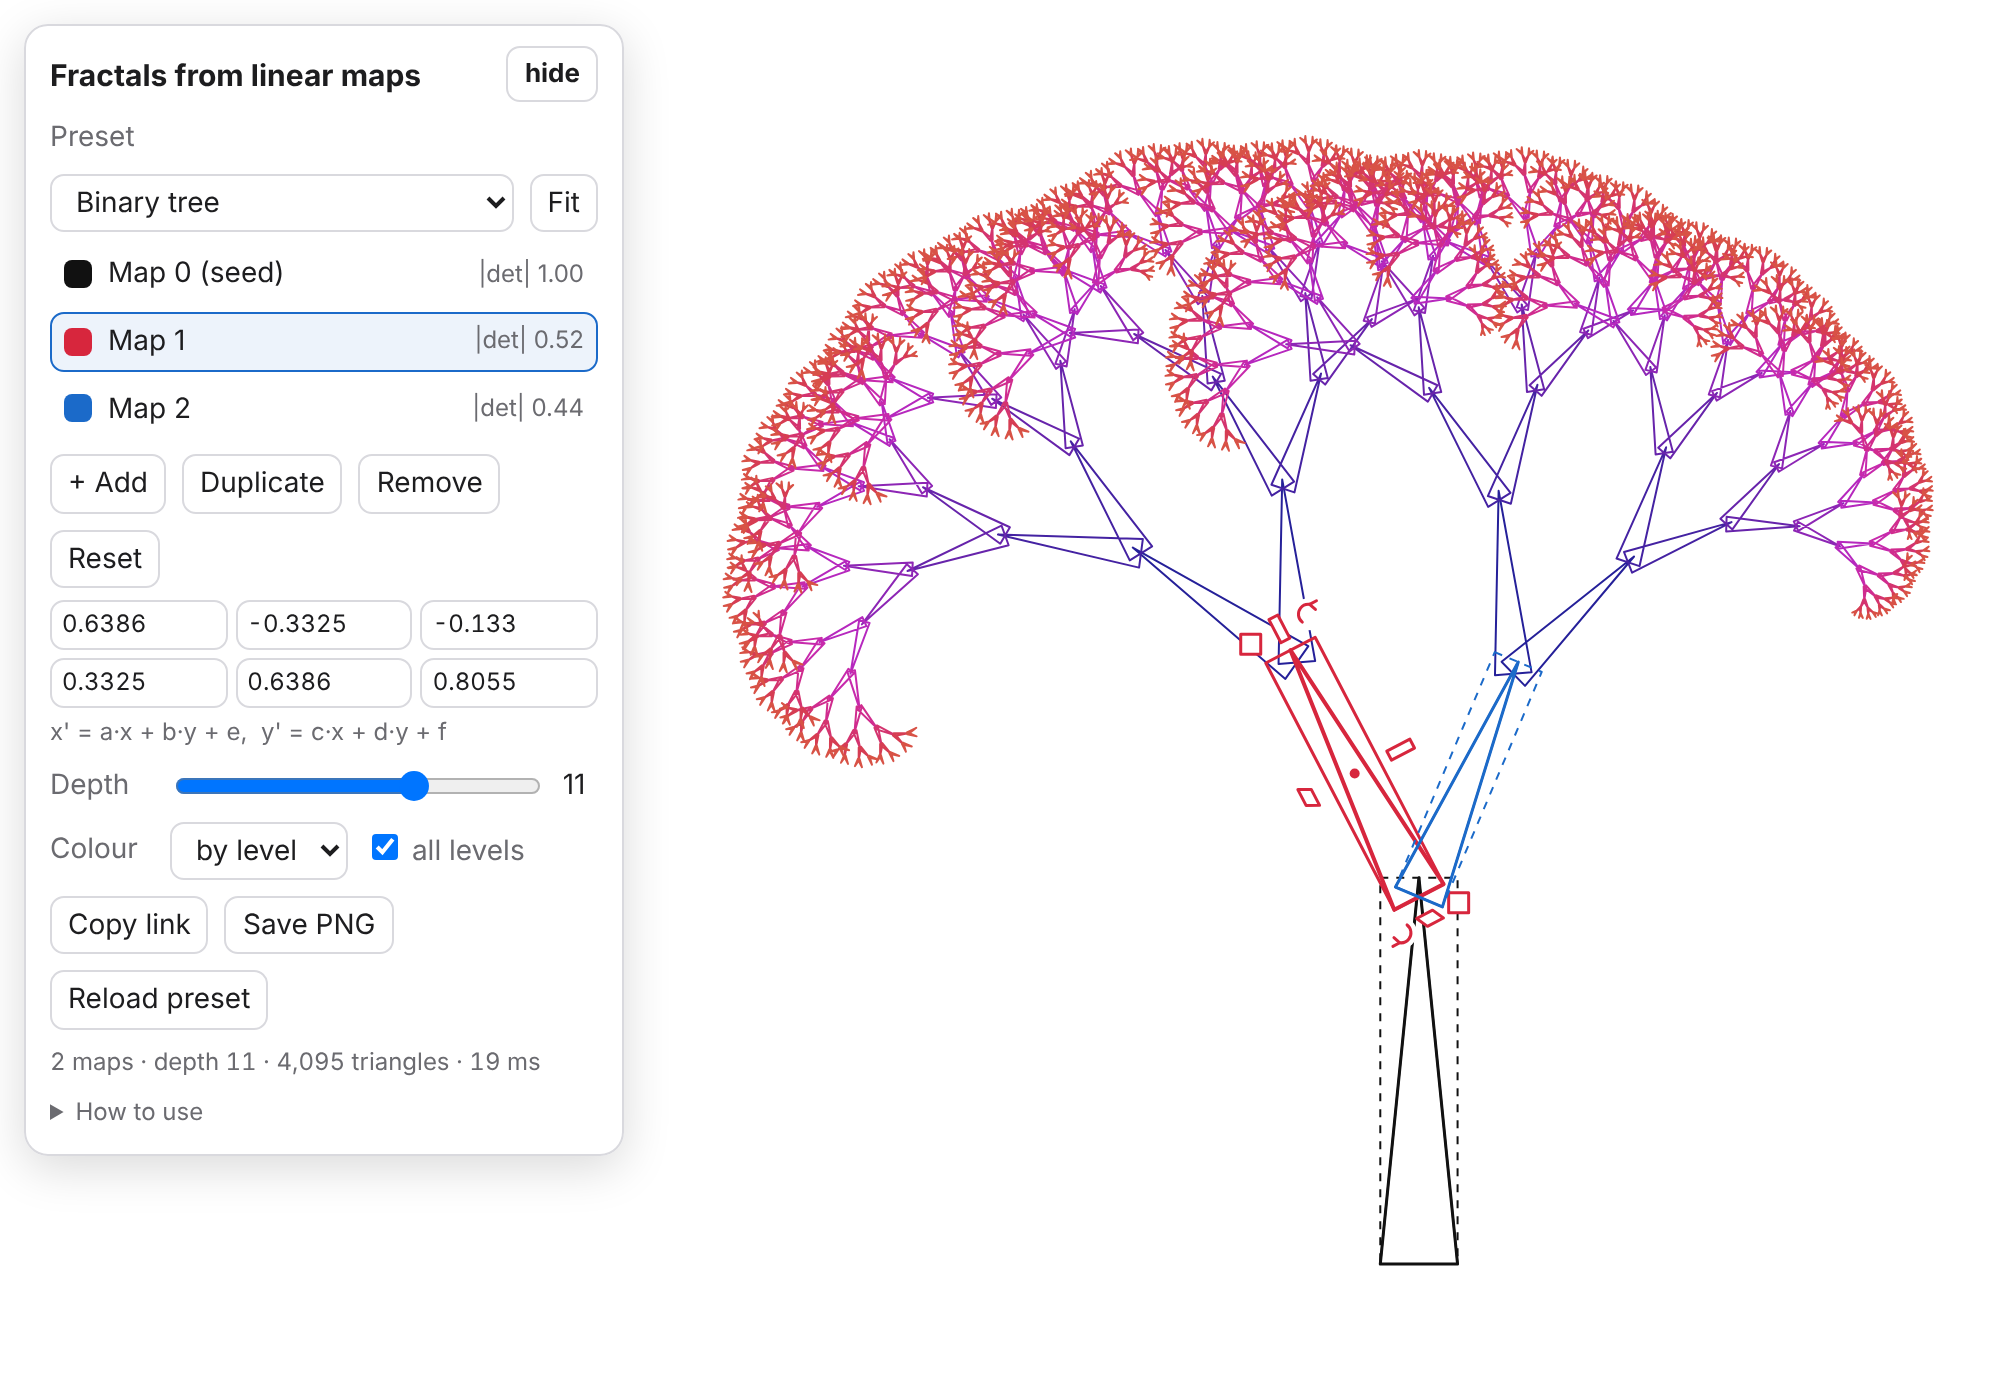
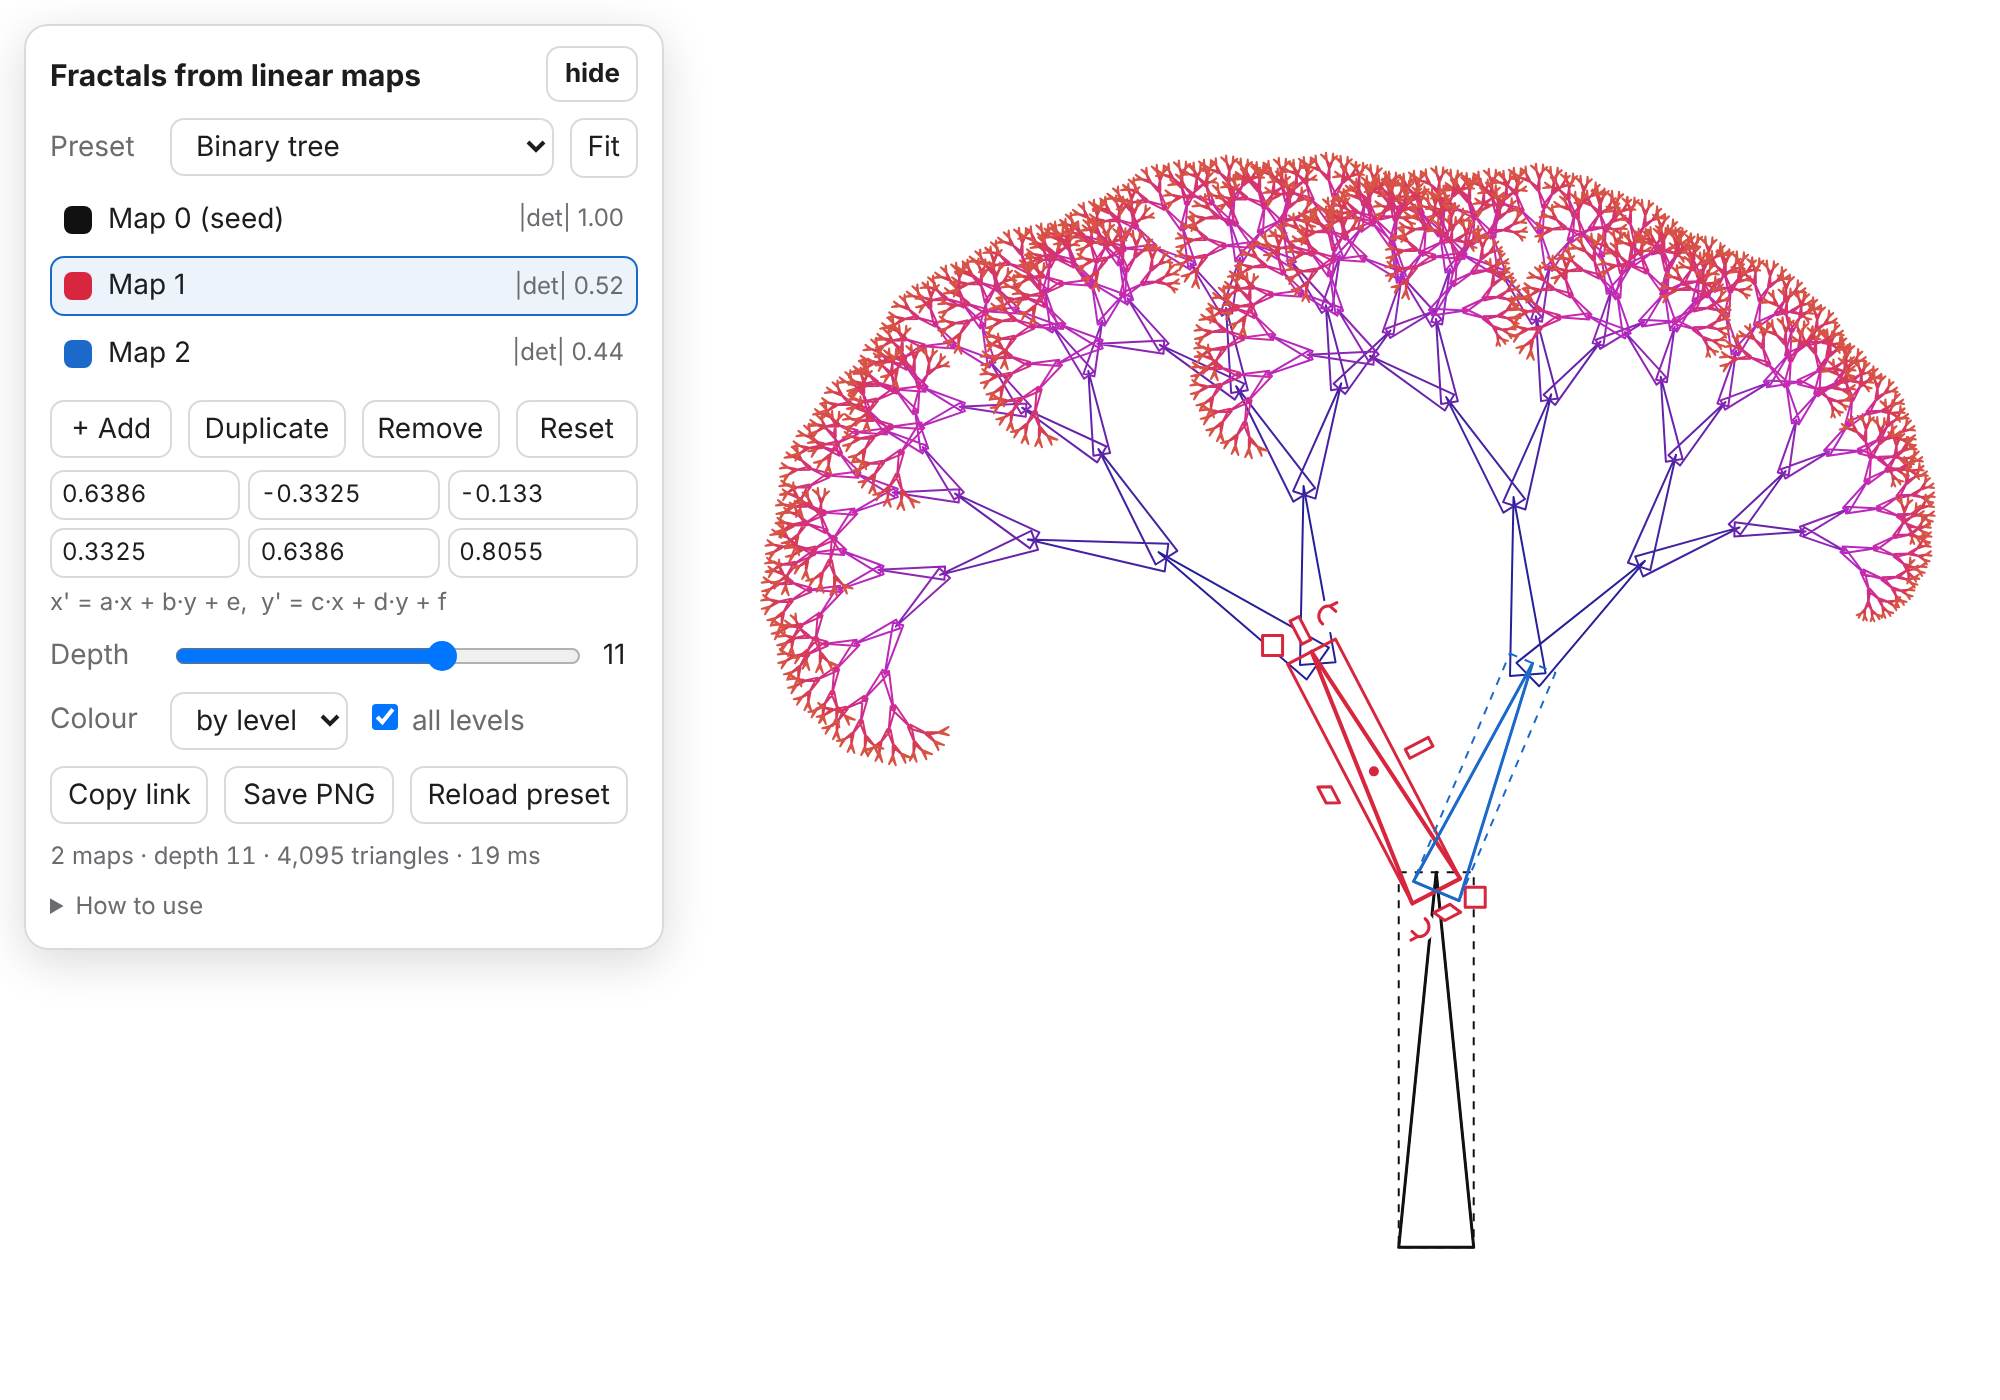
Keep the panel rows on one line
Claude-Session: https://claude.ai/code/session_01CVnhwgJD6oc9kUdkUExhbg

Changed region(s): [[0.341, 0.0921, 0.992, 0.9214], [0.031, 0.0921, 0.341, 0.8293], [0.248, 0.0307, 0.31, 0.0614]]

diff --git a/index.html b/index.html
@@ -29,7 +29,7 @@
   html, body { margin: 0; height: 100%; overflow: hidden; background: var(--bg); color: var(--text);
     font: 14px/1.4 system-ui, -apple-system, "Segoe UI", Roboto, sans-serif; }
   canvas#c { position: fixed; inset: 0; width: 100%; height: 100%; touch-action: none; display: block; }
-  #panel { position: fixed; left: 12px; top: 12px; width: 300px; max-height: calc(100% - 24px);
+  #panel { position: fixed; left: 12px; top: 12px; width: 320px; max-height: calc(100% - 24px);
     overflow: auto; background: var(--panel); border: 1px solid var(--border); border-radius: 12px;
     box-shadow: 0 6px 24px rgba(0,0,0,0.15); padding: 10px 12px 12px; backdrop-filter: blur(6px); }
   #panel h1 { font-size: 15px; margin: 0; display: flex; align-items: center; justify-content: space-between; }
@@ -50,7 +50,7 @@
   .map.sel { border-color: var(--accent); background: rgba(27,106,201,0.08); }
   .map .sw { width: 14px; height: 14px; border-radius: 4px; flex: none; }
   .map .nm { flex: 1; }
-  .map button { padding: 1px 7px; font-size: 12px; }
+  .mapbtns button { padding: 4px 7px; flex: 1; }
   .matrix { display: grid; grid-template-columns: repeat(3, 1fr); gap: 4px; margin-top: 6px; }
   .matrix input { width: 100%; padding: 3px 5px; font-size: 12px; font-variant-numeric: tabular-nums; }
   .hint { color: var(--muted); font-size: 12px; margin-top: 8px; }
@@ -70,11 +70,11 @@
   <div class="body">
     <div class="row">
       <label>Preset</label>
-      <select id="preset" style="flex:1"></select>
+      <select id="preset" style="flex:1; min-width:0"></select>
       <button id="fit" title="Fit the view to the drawing">Fit</button>
     </div>
     <div id="maps"></div>
-    <div class="row"><button id="add" title="Add a map">+ Add</button><button id="dup">Duplicate</button><button id="del">Remove</button><button id="resetMap" title="Reset the selected map">Reset</button></div>
+    <div class="row mapbtns"><button id="add" title="Add a map">+ Add</button><button id="dup">Duplicate</button><button id="del">Remove</button><button id="resetMap" title="Reset the selected map">Reset</button></div>
     <div class="matrix" id="matrix">
       <input type="number" step="0.01" data-k="a" title="a"><input type="number" step="0.01" data-k="b" title="b"><input type="number" step="0.01" data-k="e" title="e (x shift)">
       <input type="number" step="0.01" data-k="c" title="c"><input type="number" step="0.01" data-k="d" title="d"><input type="number" step="0.01" data-k="f" title="f (y shift)">
